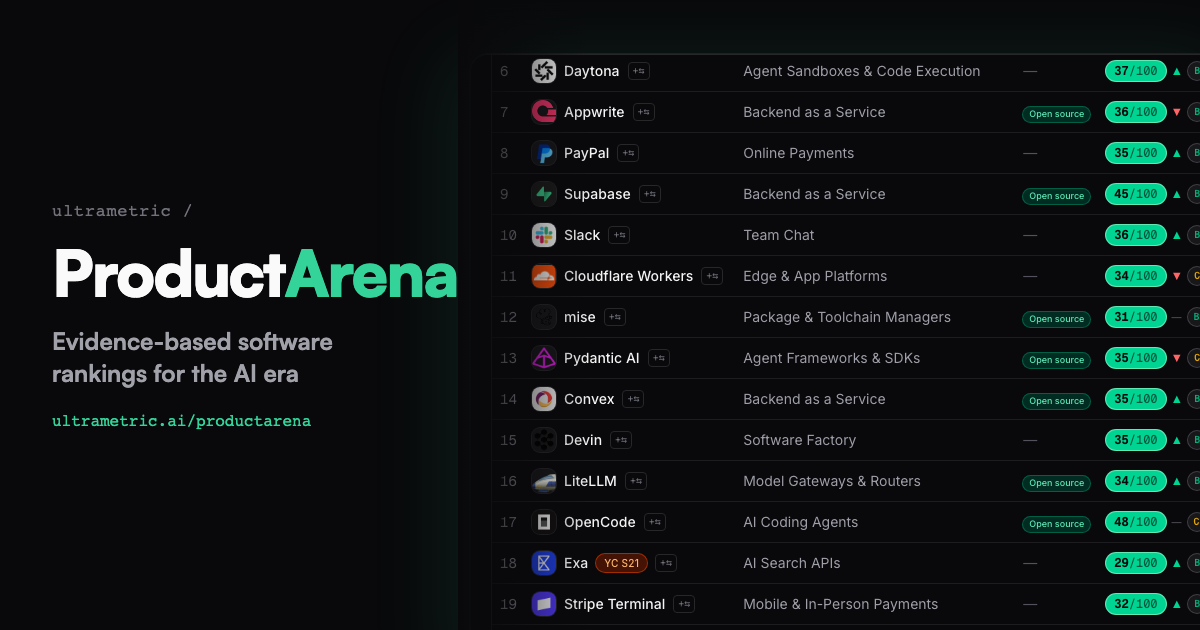
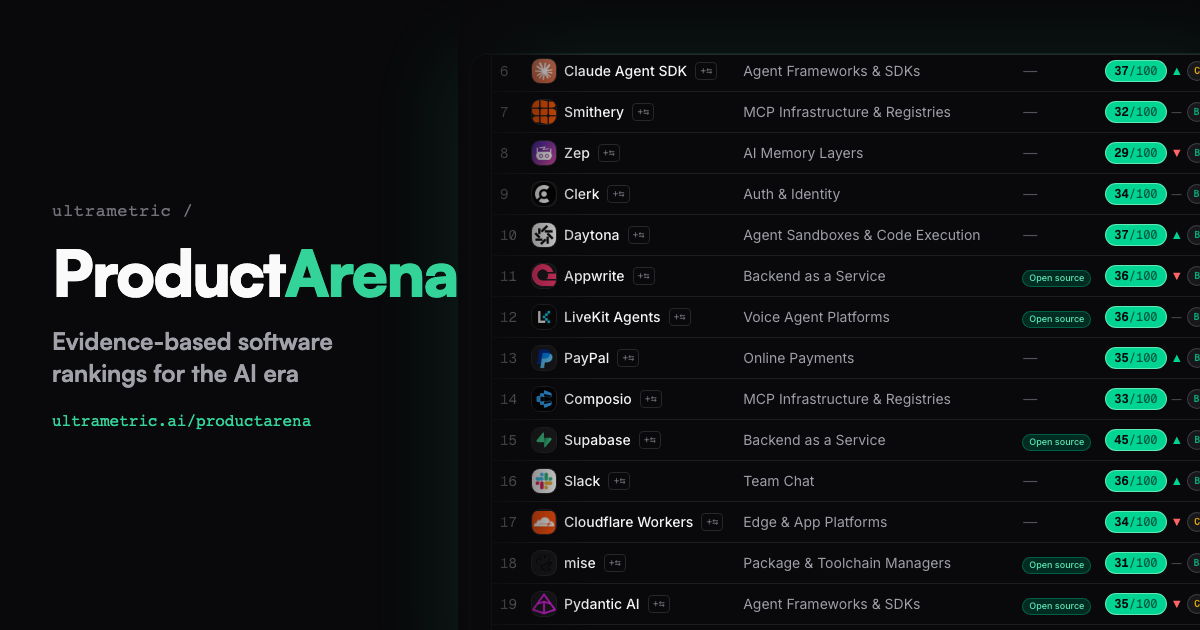
docs: 44-arena snapshot + OG refresh

diff --git a/README.md b/README.md
@@ -43,7 +43,7 @@ never a hand-maintained claim; see "Status & roadmap" for what's next.
 
 ![ProductArena rankings — homepage snapshot](docs/assets/rankings-snapshot.png)
 
-*Snapshot from September 5, 2026 (38 arenas, judge v3) — rankings move whenever new evidence lands, so treat every
+*Snapshot from September 5, 2026 (44 arenas, judge v3) — rankings move whenever new evidence lands, so treat every
 number in this image as historical. The live table is at
 [ultrametric.ai/productarena](https://ultrametric.ai/productarena); machine-readable rankings
 are at `/data/<arena>/rankings.json` per arena.*
